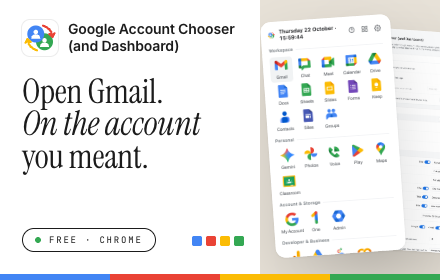
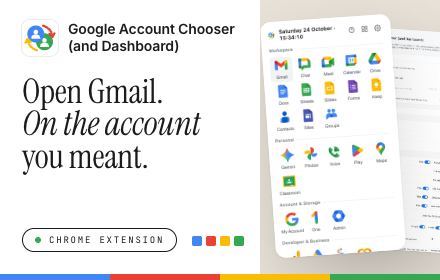
Remove "Free" from small promo tile
Chrome Web Store flagged it as promotional status text (Red Nickel).

Changed region(s): [[0.2364, 0.8, 0.4136, 0.9143], [0.65, 0.0857, 0.7682, 0.1429], [0.1182, 0.8286, 0.2068, 0.8857]]

diff --git a/scripts/images/small.html b/scripts/images/small.html
@@ -26,7 +26,7 @@
   <div class="left">
     <div class="brand"><img src="/images/icon.svg" width="36" height="36" alt=""><span>Google Account Chooser<br>(and Dashboard)</span></div>
     <h1 class="serif">Open Gmail.<br><em>On the account</em><br>you meant.</h1>
-    <div class="pill mono">Free · Chrome</div>
+    <div class="pill mono">Chrome extension</div>
     <span class="dots"><i></i><i></i><i></i><i></i></span>
   </div>
   <div class="right">
